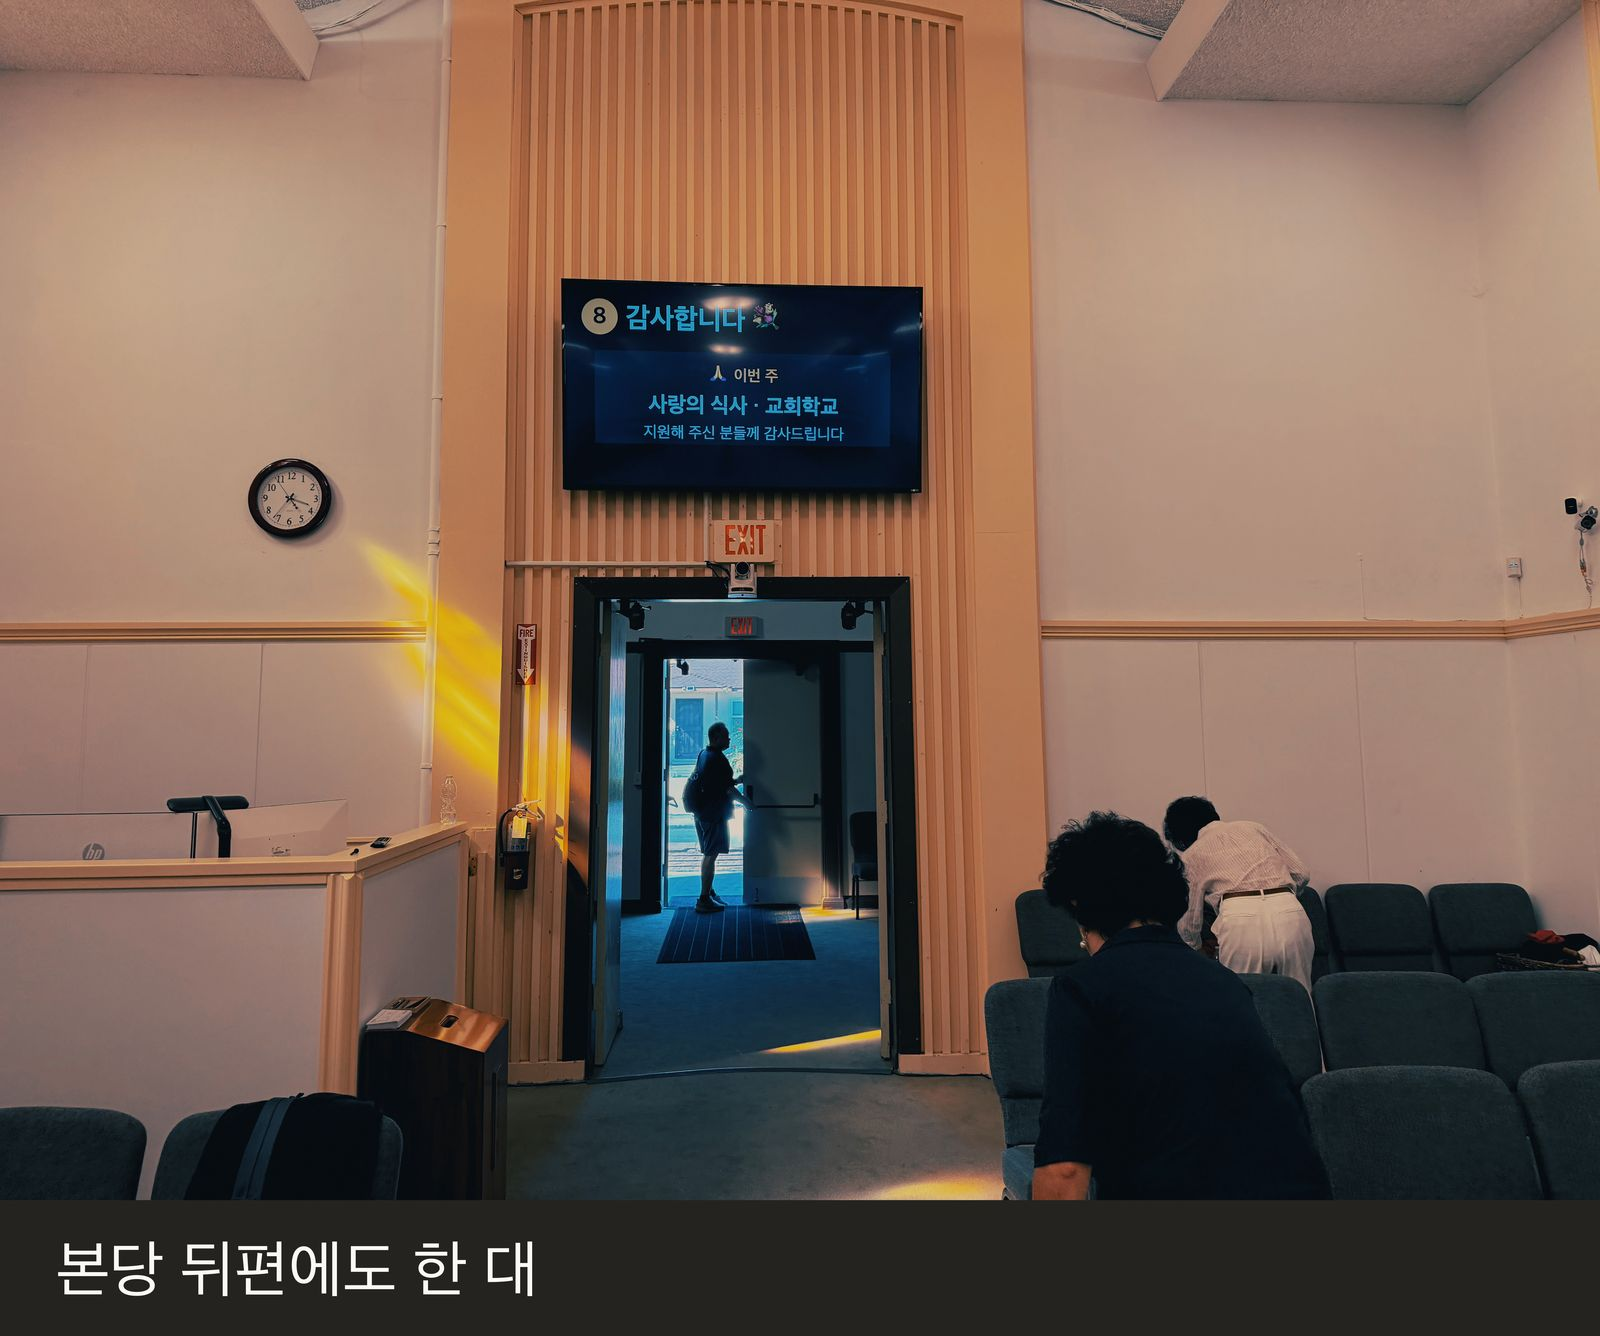
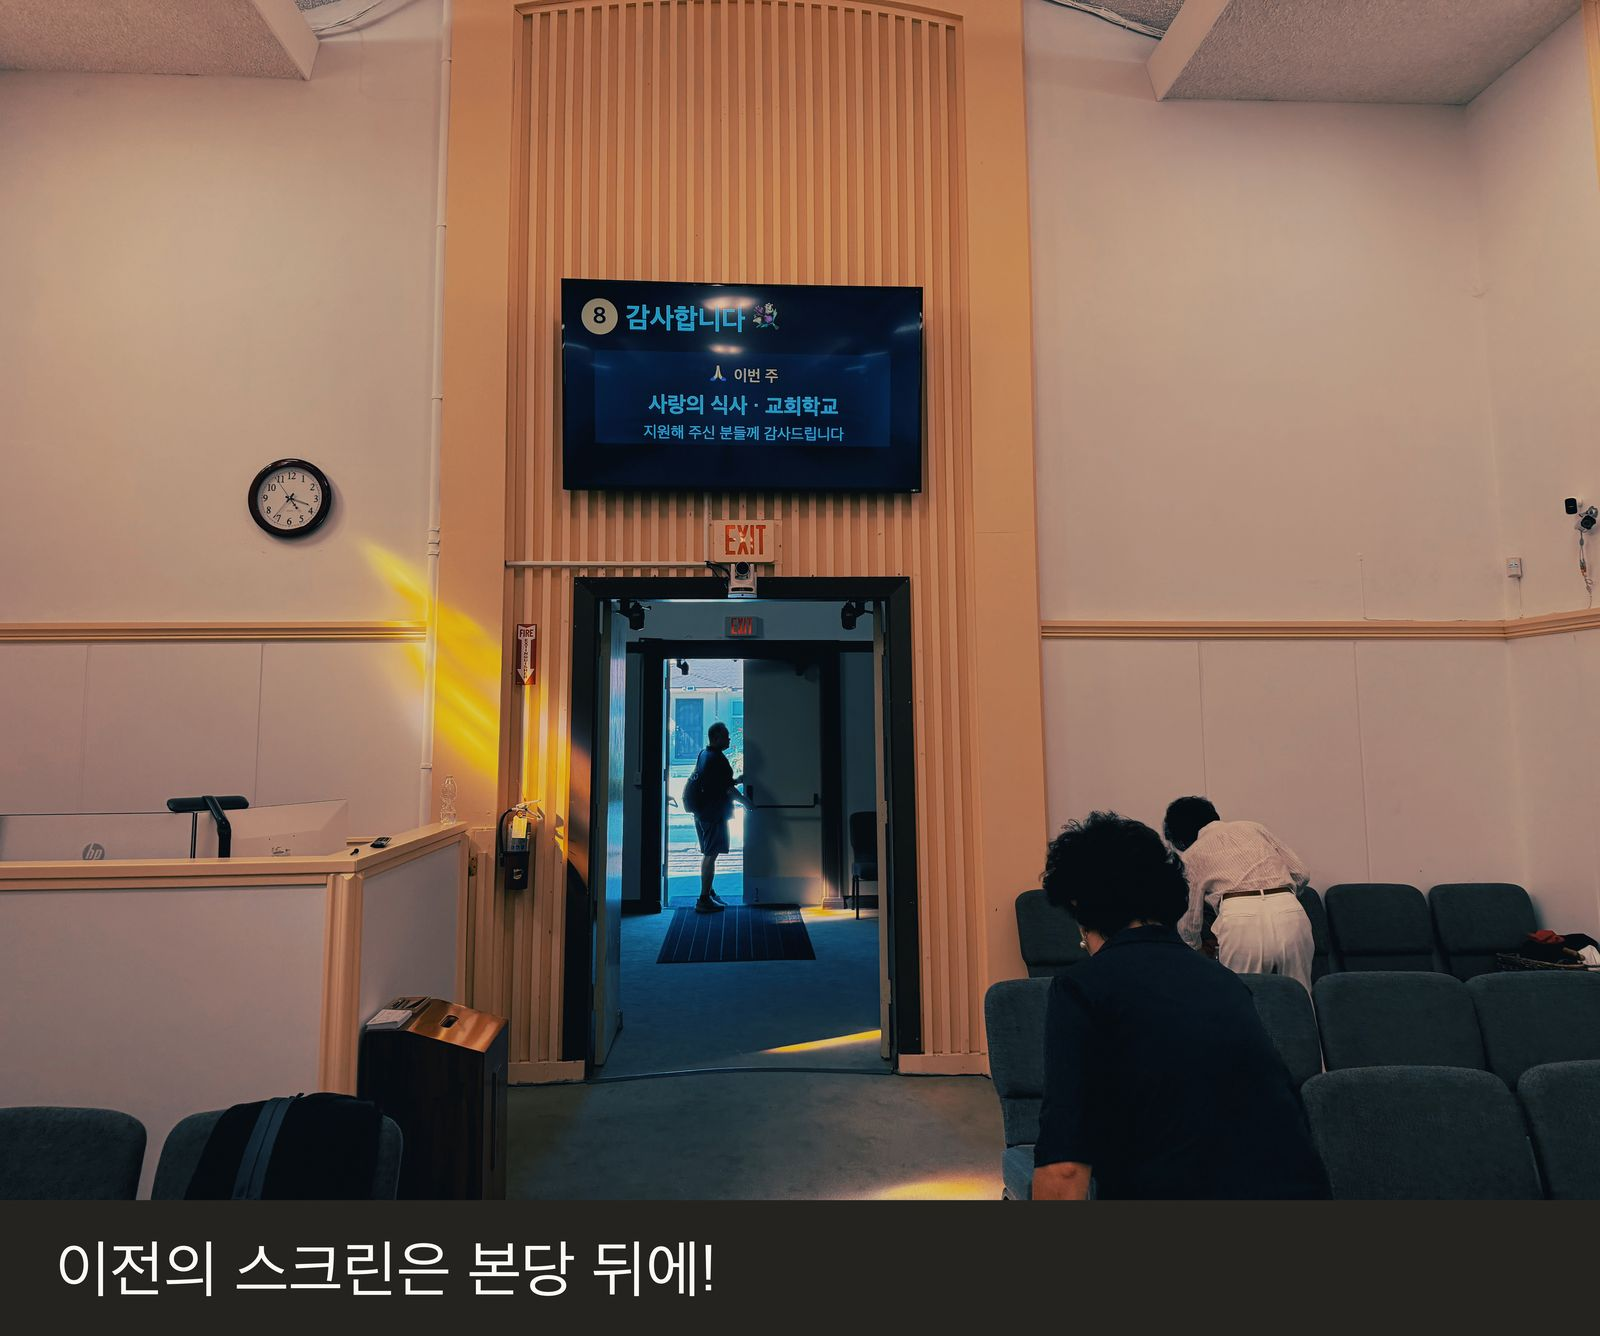
앨범 갱신: 2026-09-13-ictxp

Changed region(s): [[0.0312, 0.9207, 0.4375, 0.982]]

diff --git a/gallery/2026-09-13-ictxp/index.html b/gallery/2026-09-13-ictxp/index.html
@@ -87,7 +87,7 @@
       <figure class="cell"><a class="tile" href="full/002.jpg" data-i="1" aria-label="사진 2"><img loading="lazy" src="thumb/002.jpg" alt="본당스크린교체 사진 2"></a></figure>
       <figure class="cell"><a class="tile" href="full/003.jpg" data-i="2" aria-label="사진 3"><img loading="lazy" src="thumb/003.jpg" alt="교체를 마친 강단 좌우 스크린"></a><figcaption class="cap">교체를 마친 강단 좌우 스크린</figcaption></figure>
       <figure class="cell"><a class="tile" href="full/004.jpg" data-i="3" aria-label="사진 4"><img loading="lazy" src="thumb/004.jpg" alt="본당스크린교체 사진 4"></a></figure>
-      <figure class="cell"><a class="tile" href="full/005.jpg" data-i="4" aria-label="사진 5"><img loading="lazy" src="thumb/005.jpg" alt="본당 뒤편에도 한 대"></a><figcaption class="cap">본당 뒤편에도 한 대</figcaption></figure>
+      <figure class="cell"><a class="tile" href="full/005.jpg" data-i="4" aria-label="사진 5"><img loading="lazy" src="thumb/005.jpg" alt="이전의 스크린은 본당 뒤에!"></a><figcaption class="cap">이전의 스크린은 본당 뒤에!</figcaption></figure>
   </main>
   <footer>
     © 미주서부장로교회 West Presbyterian Church of America<br>
@@ -103,7 +103,7 @@
   </div>
 <script>
   const FULL=["001.jpg","002.jpg","003.jpg","004.jpg","005.jpg"];
-  const CAPS=["","","교체를 마친 강단 좌우 스크린","","본당 뒤편에도 한 대"];
+  const CAPS=["","","교체를 마친 강단 좌우 스크린","","이전의 스크린은 본당 뒤에!"];
   const lb=document.getElementById('lb'),img=document.getElementById('lbimg'),count=document.getElementById('count');
   const lbcap=document.getElementById('lbcap');
   let cur=0;
